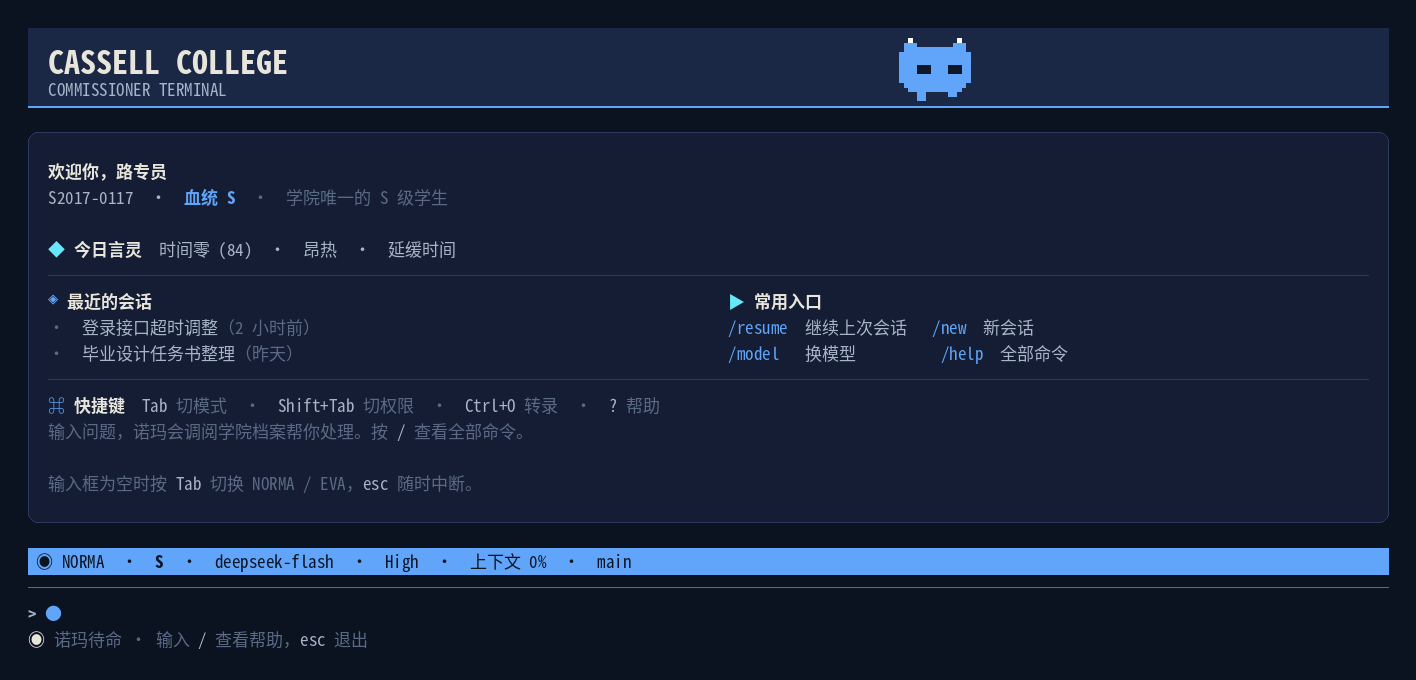
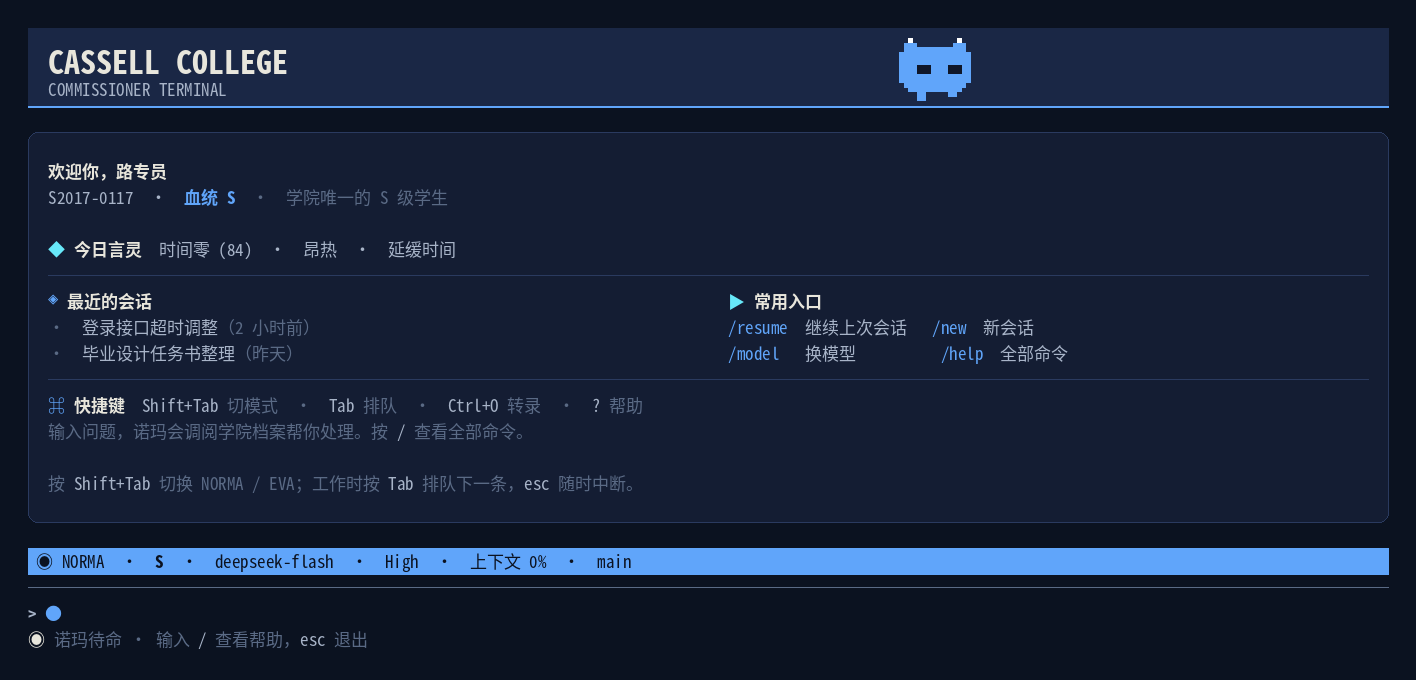
docs: 纠正操作模式参照：是 Codex CLI，不是 Code CLI
用户 2026-11-14 19:47 纠正：平时用得最多的是 OpenAI 的 Codex CLI。
Codex 和 Claude Code 的按键不一样，按键跟着改：
- Shift+Tab 切 NORMA/EVA（Codex 的 Shift+Tab 切模式）
- Tab 排队（工作时把下一条排进下一轮，Steer 模式）
- 权限用 /permissions 改（Ask / Approve for me / Full Access / Read Only）
- /plan 进计划模式；Esc 中断、Esc×2 改上一条
- 欢迎屏快捷键提示与效果图同步更新

diff --git a/docs/cli-design/mockups/render_mockups.py b/docs/cli-design/mockups/render_mockups.py
@@ -255,15 +255,16 @@ def mockup_welcome():
 
     # shortcuts strip
     line(d, 14, [("⌘ ", BLUE, True), ("快捷键  ", TEXT, True),
-                 ("Tab", TEXT2, False), (" 切模式  ·  ", TEXT3, False),
-                 ("Shift+Tab", TEXT2, False), (" 切权限  ·  ", TEXT3, False),
+                 ("Shift+Tab", TEXT2, False), (" 切模式  ·  ", TEXT3, False),
+                 ("Tab", TEXT2, False), (" 排队  ·  ", TEXT3, False),
                  ("Ctrl+O", TEXT2, False), (" 转录  ·  ", TEXT3, False),
                  ("?", TEXT2, False), (" 帮助", TEXT3, False)], x=PAD + 20)
     line(d, 15, [("输入问题，诺玛会调阅学院档案帮你处理。按 ", TEXT3, False),
                  ("/", TEXT2, False), (" 查看全部命令。", TEXT3, False)],
          x=PAD + 20)
-    line(d, 17, [("输入框为空时按 ", TEXT3, False), ("Tab", TEXT2, False),
-                 (" 切换 NORMA / EVA，", TEXT3, False),
+    line(d, 17, [("按 ", TEXT3, False), ("Shift+Tab", TEXT2, False),
+                 (" 切换 NORMA / EVA；工作时按 ", TEXT3, False),
+                 ("Tab", TEXT2, False), (" 排队下一条，", TEXT3, False),
                  ("esc", TEXT2, False), (" 随时中断。", TEXT3, False)],
          x=PAD + 20)
 

diff --git a/docs/cli-design/卡塞尔CLI_界面设计_v1.0.md b/docs/cli-design/卡塞尔CLI_界面设计_v1.0.md
@@ -10,7 +10,7 @@
 > **修订（2026-11-14 18:30，龙宝定稿 v9）**：用户说“你没有 get 到 claude 那个小怪兽的设计语言”，要求调研 Clawd 再做。调研结论：Clawd 是像素橙螃蟹，设计语言是“一个融合轮廓 + 2–3 扁平色 + 两个点当脸 + 一次一个说道具 + 像素网格纪律”，没有官方设计博客。按调研给出 A 独角冰龙 / B 长身龙 / C 大头龙宝宝 / D 冰晶三角龙四个方向并全部画出，用户先点 C，又说“几个都弄一下给我看看”，看完四只后最终选了 **C 大头龙宝宝（v9）**。v9 是婴儿图式：头占一半高，头顶一对小蝙蝠翼耳（白尖）是唯一龙标记，圆眼睛（非方形），小身子 + 两只小脚。黑填剪影测试通过（四只剪影一眼能分清）。
 > **修订（2026-11-14 18:32，龙宝 v10 定稿）**：用户看完 v9 后说“3 号的头可以只留头加和手和脚吗，就和 claude 的螃蟹一样”——要 Clawd 的结构：脸就是身体，四肢直接长在脸上。v10 删掉 v9 的小身子，保留大头 + 翼耳，加两只小手（两侧横向伸出，像 Clawd 的侧臂）+ 两只小脚。用户在 v9（头 + 小身子）和 v10（头 + 手 + 脚）里选了 **v10**。v9、v8d（圆身子 + 深蓝翅膀 + 白眼睛）的迭代图仍在 `mascot/` 里备查。
 > **修订（2026-11-14 19:34，龙宝 v11 + 标题英文 + 桌宠动作扩充）**：用户说“就只有走路太单调了吧，还有把两侧的手去掉，还有多加几个啊”——① 两侧小手删掉，龙宝只剩大头 + 翼耳 + 眼睛 + 两只脚（v11），更干净；② 光走路太单调，§2.4 扩充动作库（见下）；③ “卡塞尔学院用英文，中文太 low 了”——标题带主标题改英文 **CASSELL COLLEGE**（大号粗体），副标题改 **COMMISSIONER TERMINAL**，全英文标题像奢侈品 logo，比中文标题高级。
-> **修订（2026-11-14 19:45，操作模式定稿 + §11 全部通过 + 雪花冷却缩短）**：用户说“就按照 code cli 那套操作模式设计就行，我用那个比较多”“Claude 也行，互相借鉴”——操作模式以 **Code CLI 为主、Claude 为辅**：Tab 切模式（NORMA/EVA）+ Shift+Tab 切权限（统一旋钮），正好对上 Code CLI 的 Tab 切模式 + Shift+Tab 切权限；Esc 中断、Ctrl+O 转录、Ctrl+R 反向搜索、`/` 命令、`!` 命令、幽灵文本 + Tab 接受补全、思考指示（动词 + 用时 + token + esc 中断）都按 Code CLI/Claude 的做法。用户对 §11 的 5 个问题说“这个通过”——龙宝 v11、龙族感、开场 1 秒、状态行 A 字段、Tab 键位全部按本文现状通过，不用改。另：用户说雪花“一个小时太慢啦，用户可能有时候都会看不到”，冷却从 1 小时改成 **10 分钟**。
+> **修订（2026-11-14 19:47，用户纠正：是 Codex CLI，不是 Code CLI）**：用户说“Codex cli，我发错了”——上面那条“Code CLI”写错了，真正参照的是 **OpenAI 的 Codex CLI**（用户平时用得最多的那个），Claude 仍为辅、互相借鉴。Codex 和 Claude Code 的按键不一样，**按键跟着改**：Codex 是 **Shift+Tab 切模式**（Plan/Pair/Execute 轮换）、**Tab 排队**（工作时按 Tab 把下一条指令排进下一轮，叫 Steer 模式）、权限用 **`/permissions`** 命令改（Ask / Approve for me / Full Access / Read Only）。所以这里也改成：**Shift+Tab 切 NORMA/EVA**（换工位）、**Tab 排队**（工作时）/ 接受幽灵补全（空闲时）、权限用 `/permissions`、`/plan` 进计划模式、Esc 中断、Esc×2 改上一条。上面 19:45 那条写的“Tab 切模式、Shift+Tab 切权限”作废。
 > 前置文档：`docs/claude-code-cli-teardown.md`（§5 已定技术选型 Rust + Ratatui、三区布局、对照方案——本文是它的**界面落地版**，不重复讲选型，只定界面长什么样、每个屏幕怎么画、每个状态怎么写）。
 > 适用：卡塞尔 CLI v1（M1–M3）。吉祥物与效果图见本文 §2 与附录；效果图 PNG 在 `cli-design/mockups/`。
 
@@ -266,9 +266,9 @@ W = 白 #FFFFFF（翼耳尖）
 │ │ · 登录接口超时调整（2 小时前）  /resume  继续上次会话  /new  新会话     │ │
 │ │ · 毕业设计任务书整理（昨天）    /model   换模型         /help  全部命令  │ │
 │ │ ─ ─ ─ ─ ─ ─ ─ ─ ─ ─ ─ ─ ─ ─ ─ ─ ─ ─ ─ ─ ─ ─ ─ ─ ─ ─ ─ ─ ─ ─ ─ ─ ─ │ │
-│ │ ⌘ 快捷键  Tab 切模式 · Shift+Tab 切权限 · Ctrl+O 转录 · ? 帮助         │ │
+│ │ ⌘ 快捷键  Shift+Tab 切模式 · Tab 排队 · Ctrl+O 转录 · ? 帮助        │ │
 │ │ 输入问题，诺玛会调阅学院档案帮你处理。按 / 查看全部命令。                │ │
-│ │ 输入框为空时按 Tab 切换 NORMA / EVA，esc 随时中断。                     │ │
+│ │ 按 Shift+Tab 切换 NORMA / EVA；工作时按 Tab 排队下一条，esc 随时中断。  │ │
 │ └───────────────────────────────────────────────────────────────────────┘ │
 ├──────────────────────────────────────────────────────────────────────────────┤
 │ ████████████ 实色冰蓝状态条（深色文字）：◉ NORMA · S · 模型 · 上下文 ██████ │
@@ -376,7 +376,7 @@ W = 白 #FFFFFF（翼耳尖）
 - **无框**：对话框没有盒子边框，靠背景色阶（面板底）与上下 `─` 分隔线分层。
 - **拟议改动 + Yes/No 选项卡**：Left/Right 切换选项卡，Tab 可在回答上加评论，Enter 确认。
 - **写操作先批后做，读操作直接跑**。审批是信任感的核心，不要为省一次按键而跳过。
-- **权限旋钮**：`Shift+Tab` 在 Ask → Accept Edits → Plan → Full Access 之间切换（一个统一旋钮，不是两个键分开拨）。当前档位常驻状态行 A（见 §7）。
+- **权限**：`/permissions` 改审批策略：Ask → Approve for me → Full Access → Read Only（照抄 Codex 的 `/permissions`，不是一个键拨动的旋钮）。当前档位常驻状态行 A（见 §7）。
 
 ### S7. 首次运行向导（First-run）：四步，只出现一次
 
@@ -390,7 +390,7 @@ W = 白 #FFFFFF（翼耳尖）
   ③ 工作区
      选择一个文件夹作为工作区（文件工具只在这个文件夹里活动）
   ④ 快捷键
-     一张快捷键速查（Tab 切模式、Shift+Tab 切权限、Ctrl+O 转录、? 帮助）
+     一张快捷键速查（Shift+Tab 切模式、Tab 排队、Ctrl+O 转录、? 帮助）
 
   [ 下一步 ]  [ 跳过 ]
 ```
@@ -404,7 +404,7 @@ W = 白 #FFFFFF（翼耳尖）
 - **`/` 命令菜单**：输入 `/` 弹出补全菜单（命令 + skill + 最近会话），幽灵文本 + `+2` 计数，Tab 接受，上下键选择。
 - **`!` shell 模式**：输入 `!` 后整行当 shell 命令跑，显示为 `⌘ <命令>` 工具行。
 - **`@` 文件提及**：输入 `@` 弹出文件补全，选中的文件以芯片形式跟在输入框里。
-- **命令列表**（v1）：`/help` `/model` `/provider` `/new` `/resume` `/status` `/diff` `/undo` `/receipts` `/setup` `/theme` `/clear` `/exit`。其余进 `/help` 详情，不占主界面。
+- **命令列表**（v1）：`/help` `/model` `/provider` `/permissions` `/plan` `/new` `/resume` `/status` `/diff` `/undo` `/receipts` `/setup` `/theme` `/clear` `/exit`。其余进 `/help` 详情，不占主界面。
 
 ### S9. 转录 / 状态 / 回溯（Transcript）：`Ctrl+O`、` /status`、双击 Esc
 
@@ -413,11 +413,12 @@ W = 白 #FFFFFF（翼耳尖）
 - **双击 Esc 回溯（rewind）**：空闲时双击 Esc 打开 rewind 菜单，回到更早的轮次（fork 出新会话，不删旧会话）。
 - **`/undo`**：撤回上一轮请求及其文件改动；**`/receipts`**：列出本会话改了哪些文件、跑了哪些命令、每次审批是谁批的、哪些失败了（抄 Codewhale）。
 
-### S10. 模式切换（Mode）：Tab 切人格，Shift+Tab 切权限
+### S10. 模式切换（Mode）：Shift+Tab 切人格，Tab 排队（Steer）
 
-- **`Tab`（输入框为空时）切换 NORMA / EVA**：球的颜色与名字一起变（白 ↔ 蓝），对话区插一行轻提示：`── EVA 已就位（工程开发）──`（dim 色，一行，不抢戏）。**切换 = 开新任务**：当前任务留在侧栏（桌面端逻辑），CLI 里当前会话保留、切模式后新起一段（见下）。
+- **`Shift+Tab` 切换 NORMA / EVA**（照抄 Codex 的 Shift+Tab 切模式）：球的颜色与名字一起变（白 ↔ 蓝），对话区插一行轻提示：`── EVA 已就位（工程开发）──`（dim 色，一行，不抢戏）。**切换 = 开新任务**：当前任务留在侧栏（桌面端逻辑），CLI 里当前会话保留、切模式后新起一段（见下）。
   - CLI 的会话模型：一个终端会话 = 一个任务。切模式时，当前任务的上下文保留在历史里，但新一轮按新模式的默认思考强度与审批走，并在对话区插一行 `── EVA 已就位（工程开发）──` 作分界。**不要在一个任务里混着两种模式的人设**——分界线就是证据。
-- **`Shift+Tab` 切换权限**：Ask → Accept Edits → Plan → Full Access，一个统一旋钮。当前档位常驻状态行 A（如 `Ask` / `Full Access`）。
+- **`Tab` 排队（Steer，照抄 Codex）**：agent 工作时按 Tab，把下一条指令排进下一轮（agent 先干完手头的活再接新的）；空闲时 Tab 接受幽灵补全。**Enter 是立即发送**——agent 正在干活时按 Enter，指令立刻插进当前轮（中途改主意用这个）。
+- **权限用 `/permissions` 改**（照抄 Codex）：Ask → Approve for me → Full Access → Read Only。当前档位常驻状态行 A（如 `Ask` / `Full Access`）。**Plan 不再是权限档位**：计划模式用 `/plan` 进（只读、不改文件，像 Codex 的 Plan 模式），再按一次 `/plan` 或发一条“动手吧”退出。
 - **状态行 A 的模式字段**：`◉ NORMA` / `◉ EVA` + 权限档位（如 `· Ask`）。模式与权限一眼可见，不用问、不用翻。
 
 ### S11. 窄终端与纯文本模式（Fallback）
@@ -443,18 +444,20 @@ W = 白 #FFFFFF（翼耳尖）
 
 ### 6.1 快捷键（v1 只要这张表，其余进 `/help`）
 
-> **操作模式（2026-11-14 用户定稿）**：以 **Code CLI 为主、Claude 为辅，互相借鉴**——用户说“我用那个（Code CLI）比较多”。对照关系：Code CLI 的 Tab 切模式（Plan/Work/Operate）→ 这里的 Tab 切 NORMA/EVA（换工位）；Code CLI 的 Shift+Tab 切权限（Ask/Auto-Review/Full Access）→ 这里的 Shift+Tab 切权限（Ask → Accept Edits → Plan → Full Access，统一旋钮）；Esc 中断、Esc+Esc rewind、Ctrl+O 转录、Ctrl+R 反向搜索、`/` 命令、`!` shell、幽灵文本 + Tab 接受补全、思考指示（动词 + 用时 + token + esc 中断）都按 Code CLI/Claude 的做法。用户用熟了 Code CLI，上手这里不用重新学。
+> **操作模式（2026-11-14 用户定稿，19:47 纠正）**：以 **Codex CLI 为主、Claude 为辅，互相借鉴**——用户说“我用那个（Codex CLI）比较多”。对照关系：Codex 的 Shift+Tab 切模式（Plan/Pair/Execute 轮换）→ 这里的 Shift+Tab 切 NORMA/EVA（换工位）；Codex 的 Tab 排队（Steer：工作时排下一条、Enter 立即插队）→ 这里一样；Codex 的 `/permissions` 改审批（Ask / Approve for me / Full Access / Read Only）→ 这里一样；Codex 的 `/plan` 进计划模式 → 这里一样；Esc 中断、Esc×2 改上一条、Ctrl+O 转录、Ctrl+R 反向搜索、`/` 命令、`!` shell、幽灵文本 + Tab 接受补全、思考指示（动词 + 用时 + token + esc 中断）都按 Codex/Claude 的做法。用户用熟了 Codex CLI，上手这里不用重新学。
 
 | 按键 | 作用 |
 |---|---|
 | Ctrl+C | 中断 / 清空输入 |
 | Ctrl+D | 退出（第一下提示，第二下退出） |
-| Esc | 中断；Esc+Esc 打开 rewind 菜单 |
-| Tab（输入框为空） | 切换 NORMA / EVA |
-| Shift+Tab | 切换权限模式（Ask → Accept Edits → Plan → Full Access） |
+| Esc | 中断；Esc+Esc 改上一条消息 |
+| Enter | 发送；工作时按 Enter 立即插进当前轮（Steer） |
+| Shift+Tab | 切换 NORMA / EVA（换工位） |
+| Tab | 工作时排队下一条（Steer）；空闲时接受幽灵补全 |
 | Ctrl+O | 转录视图（时间戳、模型、展开折叠行） |
 | Ctrl+R | 反向搜索历史 |
-| Ctrl+L | 重绘 |
+| Ctrl+L | 重绘 / 清屏（保留会话） |
+| Ctrl+G | 在编辑器中打开 |
 | Ctrl+T | 任务清单（本轮 todo） |
 | Ctrl+V | 粘贴图片（终端支持时转为 `[Image #N]` 芯片；不支持时提示） |
 | Up/Down | 历史 |
@@ -472,6 +475,8 @@ W = 白 #FFFFFF（翼耳尖）
 |---|---|
 | `/help` | 全部命令与快捷键 |
 | `/model` | 换模型（列表选择） |
+| `/permissions` | 改审批策略（Ask / Approve for me / Full Access / Read Only） |
+| `/plan` | 进 / 出计划模式（只读、不改文件） |
 | `/provider` | 换服务商 / 配 Key |
 | `/new` | 新会话 |
 | `/resume` | 继续最近的会话（列表选择） |
@@ -503,7 +508,7 @@ W = 白 #FFFFFF（翼耳尖）
 | `上下文 23%` | 用量百分比 | < 80% 正常色，80–95% 提醒黄，> 95% 红 |
 | `main ●` | git 分支 + 是否干净 | `●` = 有未提交改动；干净不显示 |
 | `◆ ULTRA` | ULTRACODE 开关 | 亮起时才显示，关掉时不显示 |
-| `Ask` | 权限档位 | Ask / Accept Edits / Plan / Full Access，常驻 |
+| `Ask` | 权限档位 | Ask / Approve for me / Full Access / Read Only，常驻 |
 
 - **字段上限 6 个**：人格、血统 S、模型、思考强度、上下文、Git、权限（ULTRA 有才算，S 不占“字段数”——它是身份徽章，不是信息字段）。TPS、缓存命中率、subagent 数进 `/status`，**不要塞进状态行**。
 - **窄终端**：< 80 列只留 `◉ NORMA · S · 模型`，其余进 `/status`。
@@ -572,13 +577,13 @@ W = 白 #FFFFFF（翼耳尖）
 
 ## 11. 待用户定（2026-11-14 19:45 全部通过）
 
-用户 2026-11-14 19:45 说“这个通过”——以下 5 项全部按本文现状通过，不用改。操作模式另按用户要求定为 **Code CLI 为主、Claude 为辅**（见 §6.1 末尾）。
+用户 2026-11-14 19:45 说“这个通过”——以下 5 项全部按本文现状通过，不用改。操作模式另按用户要求定为 **Codex CLI 为主、Claude 为辅**（见 §6.1 末尾；19:47 用户纠正：是 Codex CLI，不是 Code CLI）。
 
 1. **龙宝的长相**：✅ 通过——v11（大圆头 + 翼耳 + 眼睛 + 两只脚，没手）。
 2. **龙族感够不够**：✅ 通过——英文标题“CASSELL COLLEGE”、S 徽章、今日言灵、龙族味动词，现状就够。
 3. **开场 1 秒会不会太短**：✅ 通过——1 秒三帧正好。
 4. **状态行 A 的字段**：✅ 通过——现状字段（人格、血统 S、模型、思考强度、上下文、Git、权限）不多不少。
-5. **Tab 切模式**：✅ 通过——按 Code CLI 的做法，输入框为空时按 Tab 切 NORMA/EVA，Shift+Tab 切权限；不用换成 Ctrl+Tab。
+5. **Tab 切模式**：✅ 通过（2026-11-14 19:47 按 Codex CLI 纠正）——**Shift+Tab 切 NORMA/EVA**（Codex 就是 Shift+Tab 切模式），Tab 改成工作时排队下一条（Steer），权限用 `/permissions`；不用换成 Ctrl+Tab。
 
 ---
 
